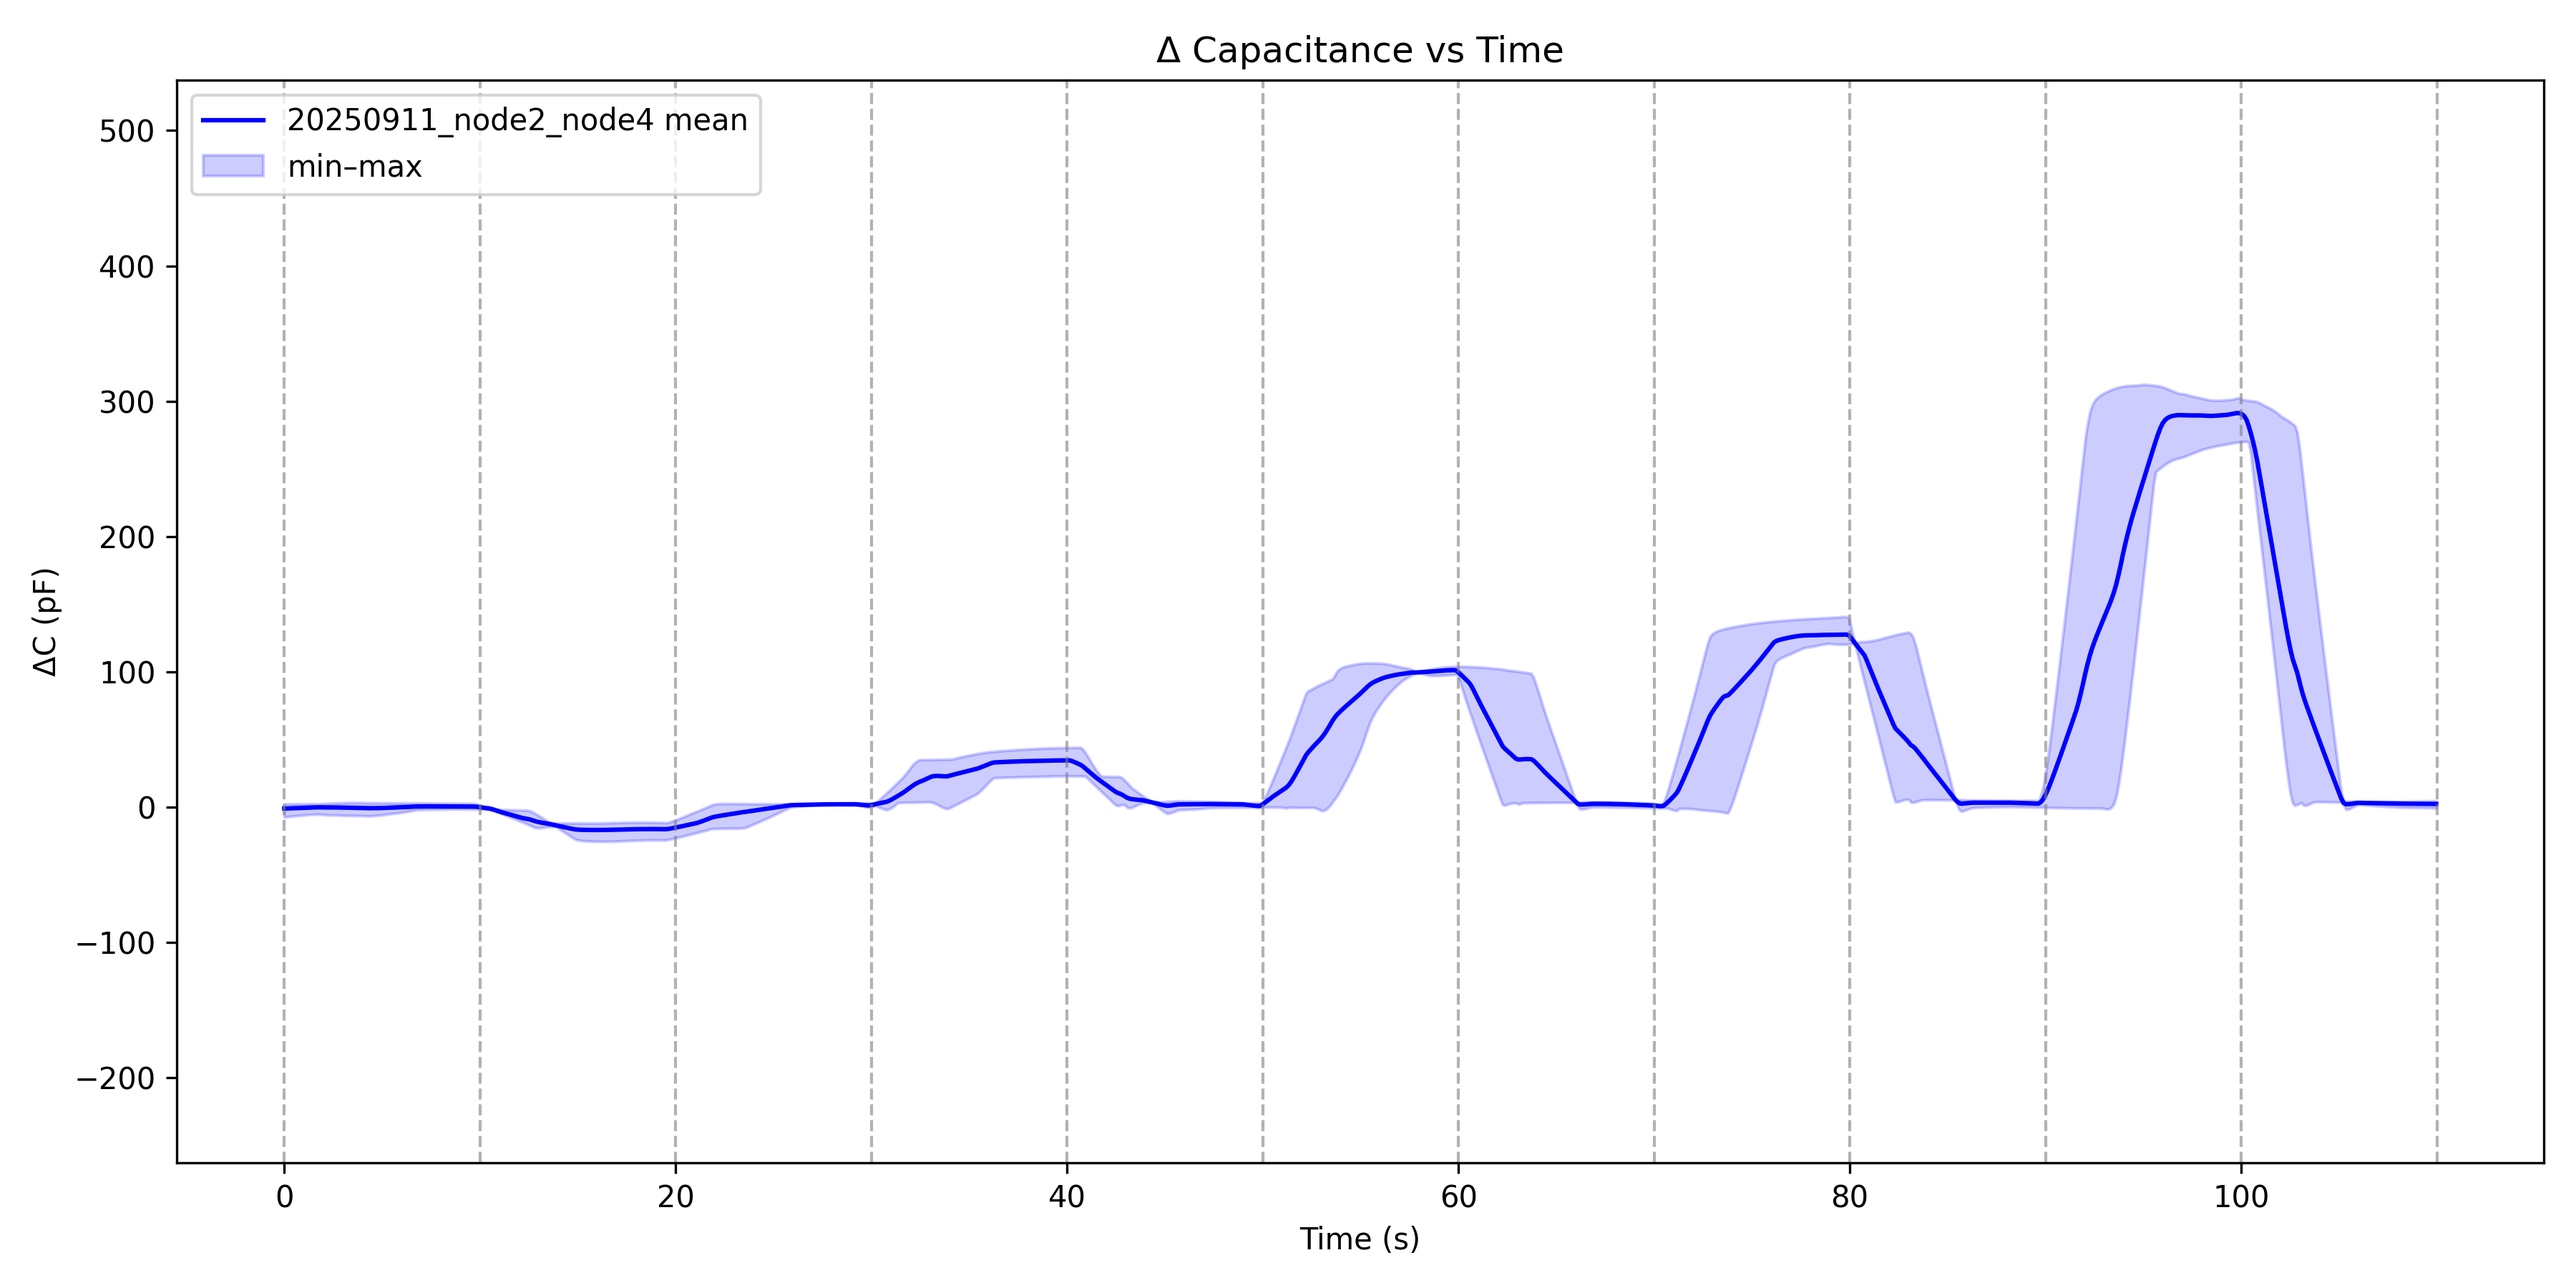
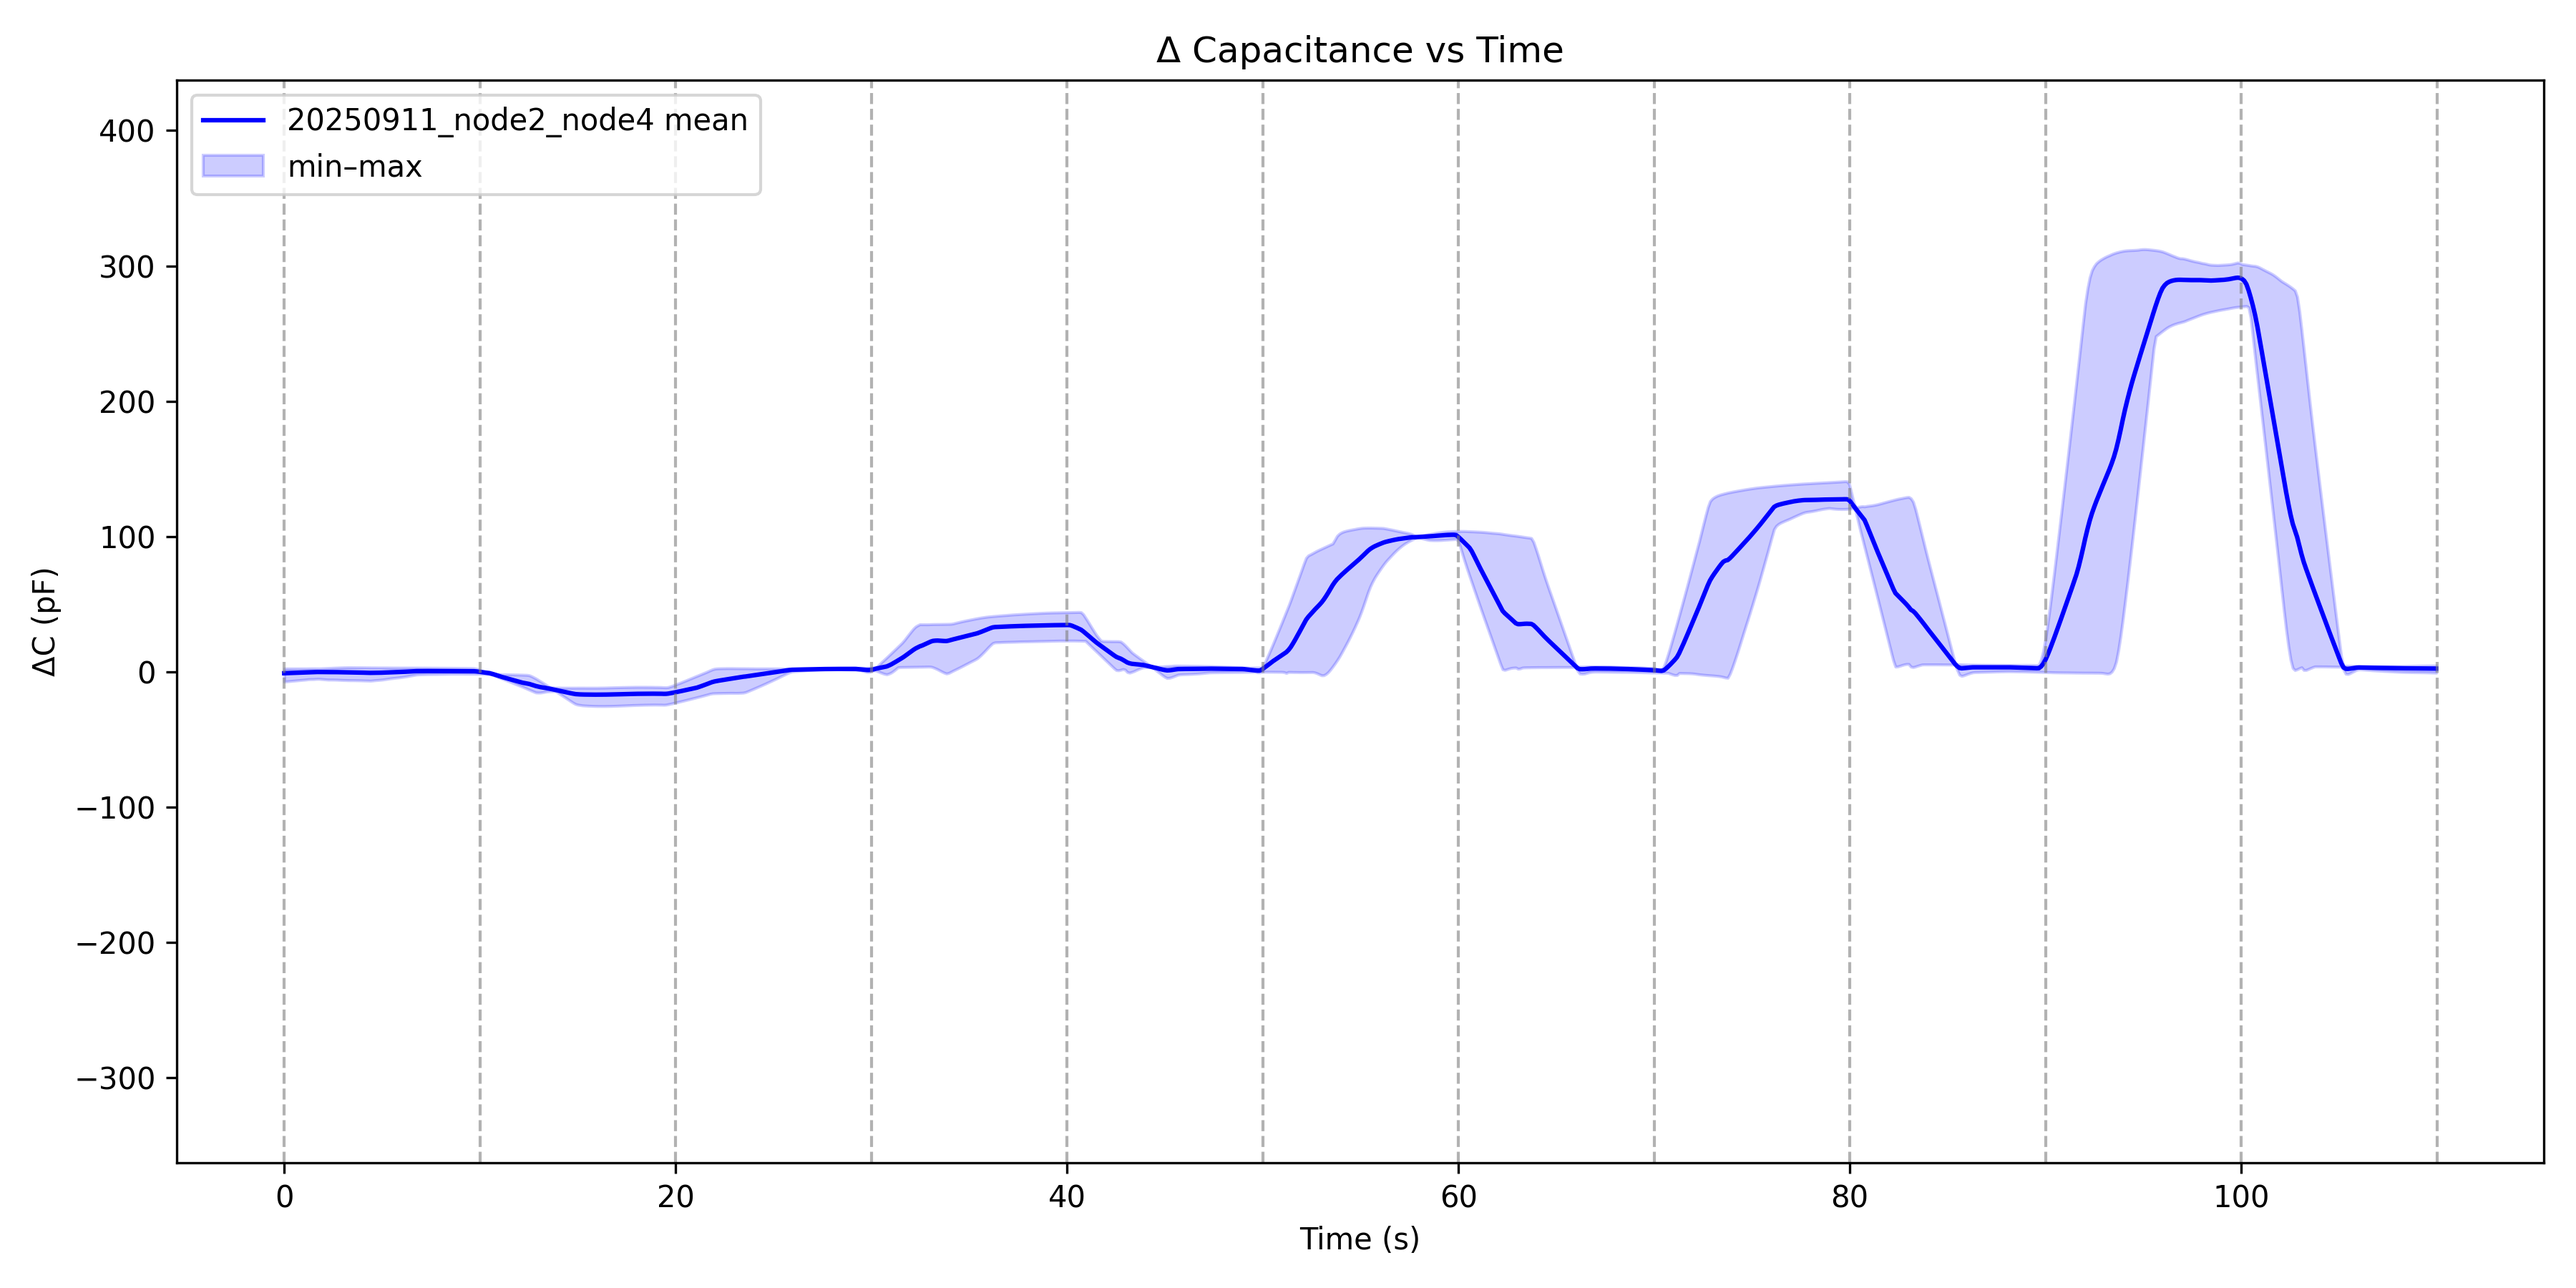
09/15

Changed region(s): [[0.0933, 0.1867, 0.9333, 0.6533], [0.0311, 0.6222, 0.0622, 0.6533], [0.0311, 0.4978, 0.0622, 0.5289]]

diff --git a/graphing/Post_Processing.py b/graphing/Post_Processing.py
@@ -33,7 +33,7 @@ for fname in os.listdir(csvfolder):
     if fname in exclude_files: 
         print(f"⚠ Skipping excluded file: {fname}")
         continue
-    base = "_".join(fname.split("_")[:-1])  # condition = everything except last token
+    base = "_".join(fname.split("_")[:-1])
     conditions.setdefault(base, []).append(fname)
 
 # --- Collect summary results ---
@@ -50,7 +50,7 @@ for cond, files in conditions.items():
 
         with open(filepath) as infile:
             reader = csv.reader(infile)
-            next(reader, None)  # skip header
+            next(reader, None)
             for row in reader:
                 try:
                     t = float(row[0])
@@ -64,7 +64,7 @@ for cond, files in conditions.items():
             continue
 
         t0 = times[0]
-        times = np.array(times) - t0  # normalize start to 0
+        times = np.array(times) - t0
         vals = np.array(vals)
         all_repeats.append((times, vals))
 
@@ -82,10 +82,9 @@ for cond, files in conditions.items():
     aligned_vals = []
     for t, v in all_repeats:
         v_interp = np.interp(common_t, t, v)
-        # ensure window length is valid for savgol_filter (odd and <= len)
         wl = min(21, len(v_interp) if len(v_interp) % 2 == 1 else len(v_interp)-1)
-        wl = max(3, wl)  # minimum reasonable window
-        v_smooth = signal.savgol_filter(v_interp, wl, 1)  # Savitzky–Golay
+        wl = max(3, wl)
+        v_smooth = signal.savgol_filter(v_interp, wl, 1)
         aligned_vals.append(v_smooth)
     aligned_vals = np.vstack(aligned_vals)
 
@@ -98,7 +97,7 @@ for cond, files in conditions.items():
     dt = np.mean(np.diff(common_t))
     block_samples = int(block_length / dt)
     if block_samples <= 0:
-        block_samples = 1  # safety
+        block_samples = 1
 
     # Break into blocks
     blocks = []
@@ -118,7 +117,7 @@ for cond, files in conditions.items():
 
     # --- Per-pose stats ---
     all_pose_vals = []
-    for i in range(1, total_blocks, 2):  # odd blocks = poses
+    for i in range(1, total_blocks, 2):
         block = delta_vals[:, i * block_samples:(i + 1) * block_samples]
         if block.size == 0:
             continue
@@ -140,10 +139,10 @@ for cond, files in conditions.items():
     ax.fill_between(common_t, min_trace, max_trace,
                     color="blue", alpha=0.2, label="min–max")
 
-    # --- Y-lim span = 700 (keeps consistent vertical span) ---
+    # --- Y-lim span = 800 (more space below) ---
     ymin, ymax = mean_trace.min(), mean_trace.max()
     center = (ymin + ymax) / 2
-    ax.set_ylim(center - 400, center + 400)
+    ax.set_ylim(center - 500, center + 300)
 
     # --- Gray vertical lines every 10s ---
     for x in range(0, 111, 10):
@@ -159,19 +158,19 @@ for cond, files in conditions.items():
     plt.savefig(outfile, dpi=300)
     plt.close()
 
-# --- Save summary table (pose-level) ---
+# --- Save summary table ---
 summary_df = pd.DataFrame(summary_rows, columns=["Condition", "Pose", "Mean ΔC (pF)", "Std ΔC (pF)"])
 summary_file = os.path.join(plotfolder, "summary.csv")
 summary_df.to_csv(summary_file, index=False)
 print(f"\n✅ Summary saved to {summary_file}")
 
-# --- Post-process: Compute SNR summary ---
+# --- Post-process: Compute SNR summary (absolute SNR) ---
 df = pd.read_csv(summary_file)
 df_numeric = df[pd.to_numeric(df["Pose"], errors="coerce").notna()].copy()
 df_numeric["Pose"] = df_numeric["Pose"].astype(int)
 
-# Compute SNR per pose
-df_numeric["SNR"] = df_numeric["Mean ΔC (pF)"] / df_numeric["Std ΔC (pF)"]
+# Compute absolute SNR per pose
+df_numeric["SNR"] = (df_numeric["Mean ΔC (pF)"].abs()) / df_numeric["Std ΔC (pF)"]
 
 rows = []
 for cond, group in df_numeric.groupby("Condition"):
